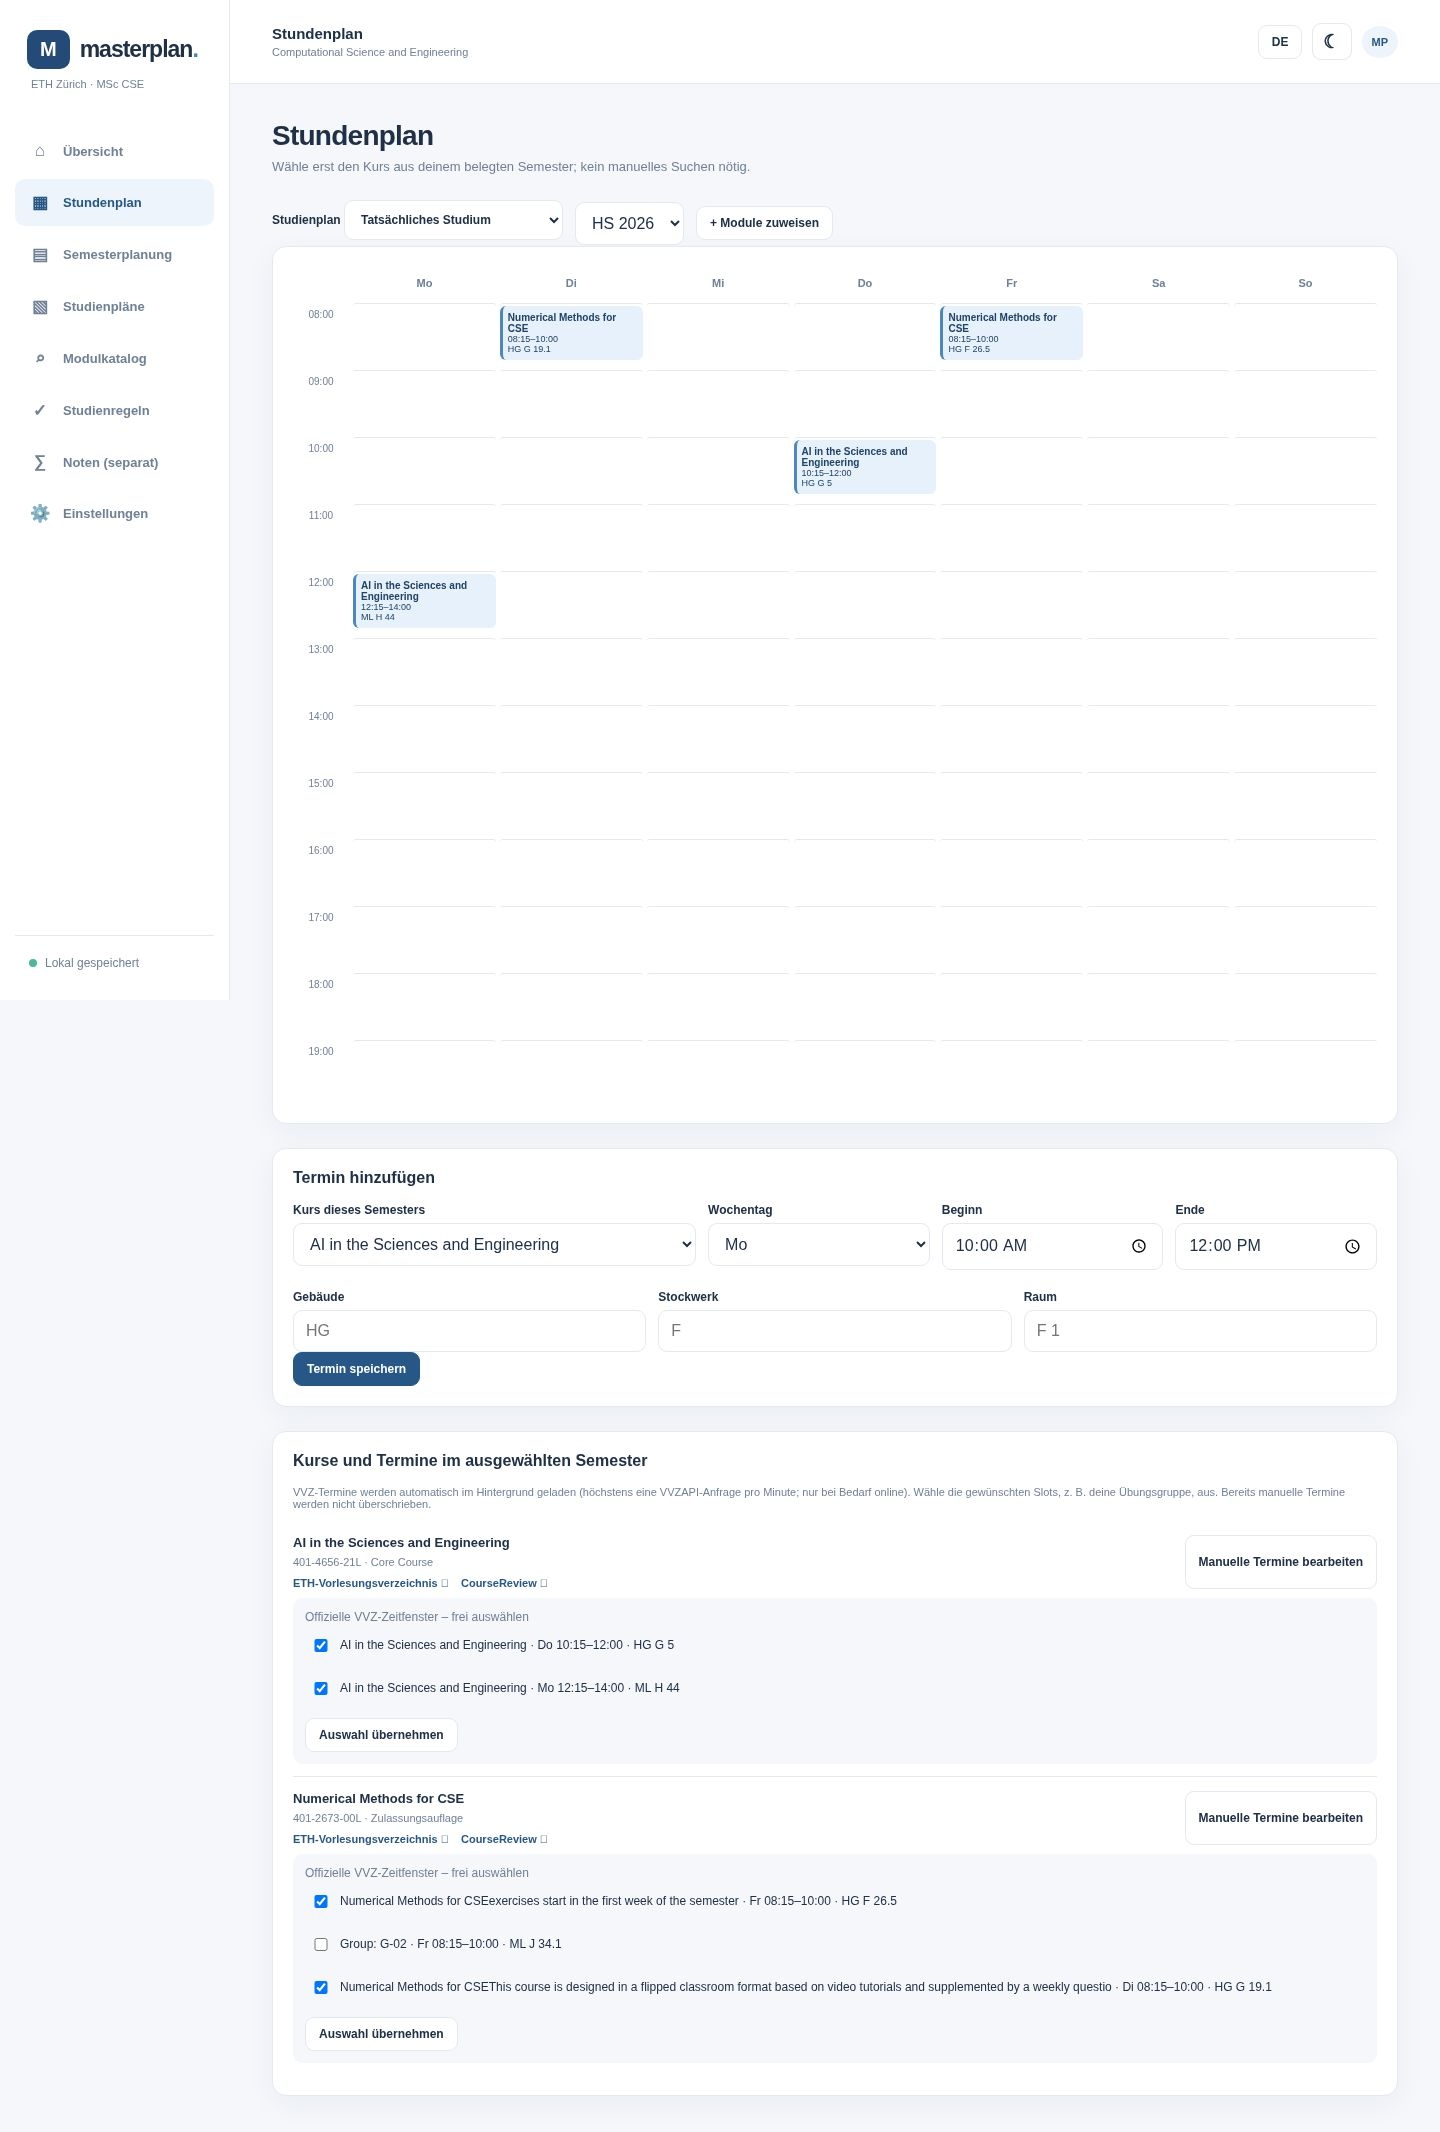
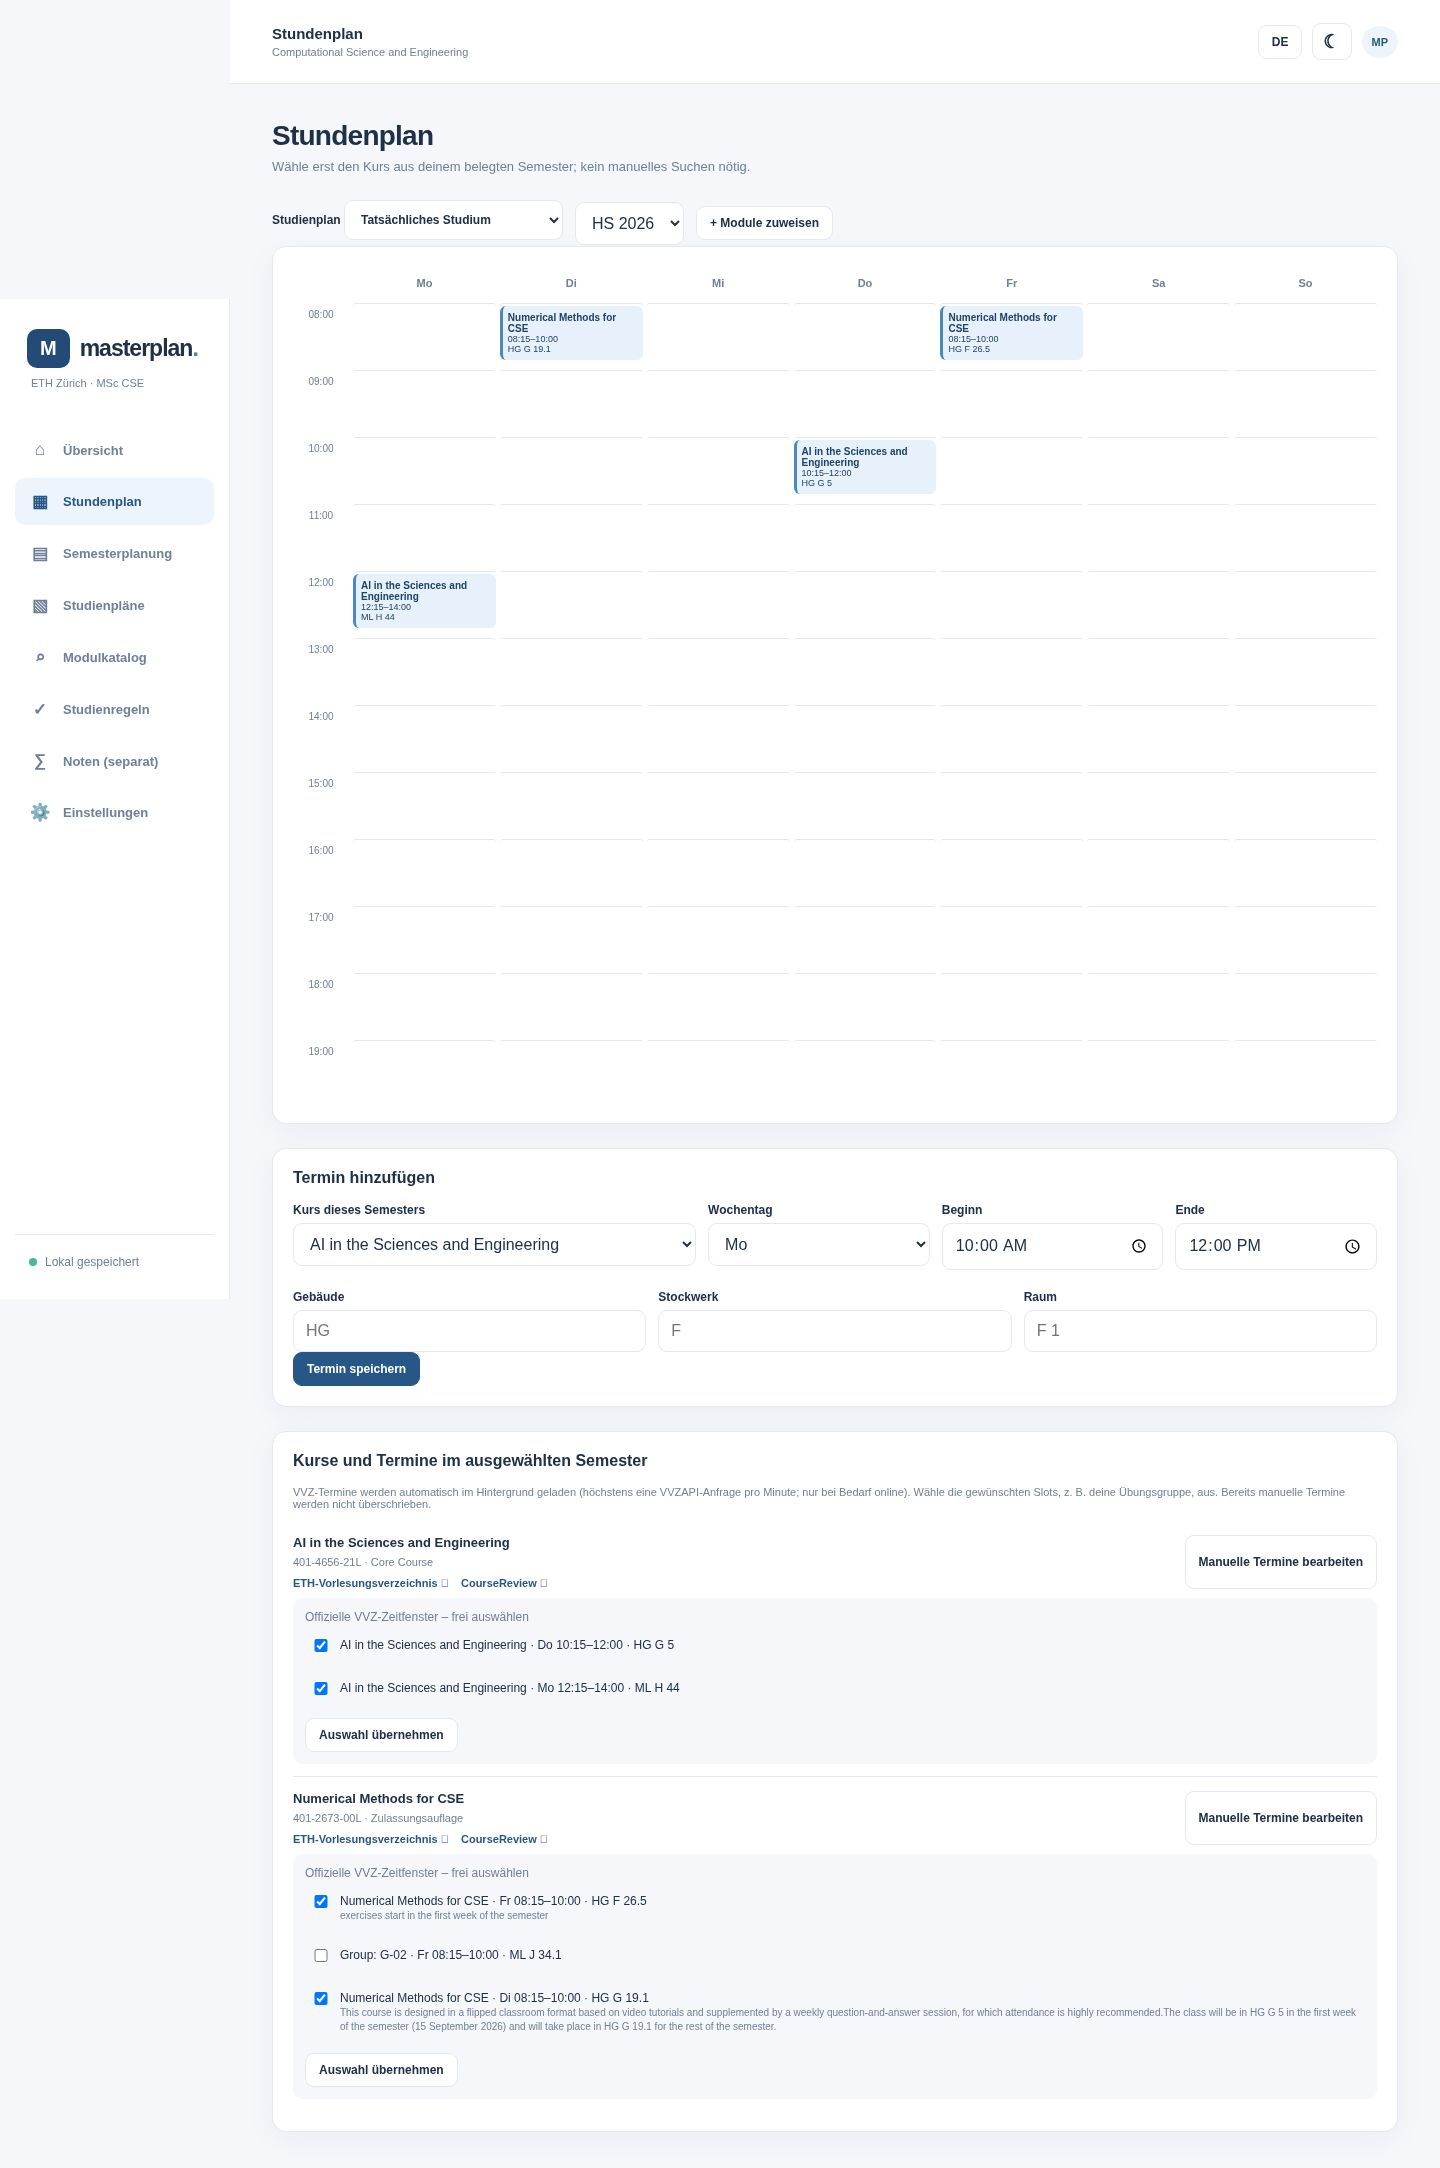
Keep official schedule comments separate and preserve room exceptions

diff --git a/web/app.js b/web/app.js
@@ -334,7 +334,7 @@ function schedule() {
     </div><div class="card spaced"><h2 class="section-title">${tr('Kurse und Termine im ausgewählten Semester','Courses and events this semester')}</h2>
     <p class="hint">${tr('VVZ-Termine werden automatisch im Hintergrund geladen (höchstens eine VVZAPI-Anfrage pro Minute; nur bei Bedarf online). Wähle die gewünschten Slots, z. B. deine Übungsgruppe, aus. Bereits manuelle Termine werden nicht überschrieben.','VVZ meetings are loaded automatically in the background (at most one VVZAPI request per minute; online only if needed). Choose the relevant slots such as your exercise group. Manual events are never overwritten.')}</p>
     ${courses.map(c=>{const info=c.unitId?meetingData.get(String(c.unitId)):null;const slots=info?.meetings||[];return `<div class="meeting-unit"><div class="course-card"><div><div class="course-name">${escape(c.title)}</div><div class="course-meta">${escape(c.number||'')} · ${trRole(c.role)} ${c.proxy?'· Proxy '+semName(c.sourceSemester):''}</div>${courseLinks(c)}</div>${p.courses.some(x=>x.id===c.id)?button(tr('Manuelle Termine bearbeiten','Edit meetings'),'edit-events',`data-id="${attrs(c.id)}"`):''}</div>
-      ${c.unitId?(info?.status==='ready'?slots.length?`<div class="meeting-options"><div class="small muted">${tr('Offizielle VVZ-Zeitfenster – frei auswählen','Official VVZ time slots – select as needed')}${c.proxy?` · ${tr('Historischer Proxy','Historical proxy')}: ${semName(c.sourceSemester)}`:''}${info.changed?` · ⚠ ${tr('VVZ-Termine geändert','VVZ schedule changed')}`:''}${info.groupStatus==='queued'?` · ${tr('Weitere VVZ-Termine werden nachgeladen','Additional VVZ meetings loading')}`:''}</div>${slots.map((m,i)=>`<label class="meeting-option"><input type="checkbox" data-slot="${attrs(c.id)}" value="${i}" ${c.events?.some(e=>e.apiSlot===m.slotKey)?'checked':''}> <span>${escape(m.label||'')} · ${escape(['Mo','Di','Mi','Do','Fr','Sa','So'][m.day]||'')} ${escape(m.start||'')}–${escape(m.end||'')} · ${escape([m.building,m.floor,m.room].filter(Boolean).join(' '))}${m.date?` · ${escape(m.date)}`:''}</span></label>`).join('')}${button(tr('Auswahl übernehmen','Apply selected slots'),'apply-vvz-slots',`data-id="${attrs(c.id)}"`)}</div>`:`<p class="small muted">${info.groupStatus==='queued'?tr('Fehlende Zeiten werden von ETH VVZ nachgeladen; bitte kurz warten.','Missing times are loading from ETH VVZ; please wait.'):info.groupStatus==='failed'?escape(info.error||tr('ETH VVZ momentan nicht erreichbar; erneuter Versuch folgt.','ETH VVZ currently unavailable; will retry.')):tr('Keine regulären Zeiten gefunden; manuelle Eingabe möglich.','No regular times found; manual entry available.')}</p>`:`<p class="small muted">${info?.status==='failed'?escape(info.error):tr('VVZ-Termine werden geladen / warten auf API-Limit…','Loading VVZ meetings / waiting for API rate limit…')}</p>`):`<p class="small muted">${tr('Manueller Kurs – keine VVZ-Kennung vorhanden.','Manual course – no VVZ unit ID.')}</p>`}</div>`;}).join('')||`<p class="muted small">${tr('Keine Kurse','No courses')}</p>`}</div>`;
+      ${c.unitId?(info?.status==='ready'?slots.length?`<div class="meeting-options"><div class="small muted">${tr('Offizielle VVZ-Zeitfenster – frei auswählen','Official VVZ time slots – select as needed')}${c.proxy?` · ${tr('Historischer Proxy','Historical proxy')}: ${semName(c.sourceSemester)}`:''}${info.changed?` · ⚠ ${tr('VVZ-Termine geändert','VVZ schedule changed')}`:''}${info.groupStatus==='queued'?` · ${tr('Weitere VVZ-Termine werden nachgeladen','Additional VVZ meetings loading')}`:''}</div>${slots.map((m,i)=>`<label class="meeting-option"><input type="checkbox" data-slot="${attrs(c.id)}" value="${i}" ${c.events?.some(e=>e.apiSlot===m.slotKey)?'checked':''}> <span>${escape(m.label||'')} · ${escape(['Mo','Di','Mi','Do','Fr','Sa','So'][m.day]||'')} ${escape(m.start||'')}–${escape(m.end||'')} · ${escape([m.building,m.floor,m.room].filter(Boolean).join(' '))}${m.date?` · ${escape(m.date)}`:''}${m.note?`<br><small class="muted">${escape(m.note)}</small>`:''}</span></label>`).join('')}${button(tr('Auswahl übernehmen','Apply selected slots'),'apply-vvz-slots',`data-id="${attrs(c.id)}"`)}</div>`:`<p class="small muted">${info.groupStatus==='queued'?tr('Fehlende Zeiten werden von ETH VVZ nachgeladen; bitte kurz warten.','Missing times are loading from ETH VVZ; please wait.'):info.groupStatus==='failed'?escape(info.error||tr('ETH VVZ momentan nicht erreichbar; erneuter Versuch folgt.','ETH VVZ currently unavailable; will retry.')):tr('Keine regulären Zeiten gefunden; manuelle Eingabe möglich.','No regular times found; manual entry available.')}</p>`:`<p class="small muted">${info?.status==='failed'?escape(info.error):tr('VVZ-Termine werden geladen / warten auf API-Limit…','Loading VVZ meetings / waiting for API rate limit…')}</p>`):`<p class="small muted">${tr('Manueller Kurs – keine VVZ-Kennung vorhanden.','Manual course – no VVZ unit ID.')}</p>`}</div>`;}).join('')||`<p class="muted small">${tr('Keine Kurse','No courses')}</p>`}</div>`;
 }
 
 function catalog() {
@@ -475,7 +475,7 @@ async function executeAction(action,element) {
   if(action==='focus-assign'){changePage('semesters');const form=$('#assign-course-form');if(form){if(element.dataset.interestId)form.elements.namedItem('interest').value=element.dataset.interestId;if(element.dataset.planId)form.elements.namedItem('plan').value=element.dataset.planId;if(element.dataset.sem)form.elements.namedItem('semester').value=element.dataset.sem;form.scrollIntoView({behavior:'smooth',block:'center'});}return;}
   if(action==='assign-interest'){const form=$('#assign-course-form');if(!form)return;const source=state.interests.find(x=>x.id===formVal(form,'interest'));const key=formVal(form,'plan'),sem=formVal(form,'semester'),role=formVal(form,'role');const dest=getPlan(key);if(!source||!dest||!/^\d{4}[SW]$/.test(sem)||!roleList.includes(role))return notify(tr('Bitte gültige Auswahl treffen.','Choose a valid course and term.'));if(dest.lockedSemesters.includes(sem))return notify(tr('Semester ist fixiert.','Semester locked.'));const off=offeringFor(source.offerings,sem);if(dest.courses.some(x=>x.number&&x.number===source.number&&x.semester===sem))return notify(tr('Kurs ist bereits eingetragen.','Course already assigned.'));return save(s=>{const d=editPlan(s,key);if(d.courses.some(c=>c.number&&c.number===source.number&&c.semester===sem))return;if(!d.semesters.includes(sem)){d.semesters.push(sem);d.semesters.sort();}d.courses.push({id:id(),number:source.number||'',title:source.title,ects:safe(source.ects),semester:sem,role,status:'planned',unitId:off.unitId||null,sourceSemester:off.sourceSemester||null,proxy:off.proxy,reviewAvailable:!!source.reviewAvailable,events:[],locked:false,creditApproved:role==='extra'?false:null});});}
   if(action==='remove-course'){const key=element.dataset.planId||p.id,dest=getPlan(key),found=dest?.courses.find(x=>x.id===cid);if(!found)return;if(found.locked||dest.lockedSemesters.includes(found.semester))return notify(tr('Erst entsperren.','Unlock first.'));return save(s=>{editPlan(s,key).courses=editPlan(s,key).courses.filter(x=>x.id!==cid);});}
-  if(action==='apply-vvz-slots'){const c=course, info=meetingData.get(String(c?.unitId));if(!c||!info||info.status!=='ready')return;const dest=getPlan(element.dataset.planId||p.id);if(fixed(c,dest))return notify(tr('Fixierter Kurs.','Course locked.'));const selected=[...document.querySelectorAll(`[data-slot="${CSS.escape(c.id)}"]:checked`)].map(e=>info.meetings[Number(e.value)]).filter(Boolean);return save(s=>{const item=editPlan(s,dest.id).courses.find(x=>x.id===c.id);item.events=[...(item.events||[]).filter(e=>!e.apiSlot),...selected.map(m=>({day:m.day,start:m.start,end:m.end,building:m.building||'',floor:m.floor||'',room:m.room||'',date:m.date||null,biweekly:!!m.biweekly,firstHalf:!!m.firstHalf,secondHalf:!!m.secondHalf,source:'vvz',apiSlot:m.slotKey,sourceSemester:item.sourceSemester}))];});}
+  if(action==='apply-vvz-slots'){const c=course, info=meetingData.get(String(c?.unitId));if(!c||!info||info.status!=='ready')return;const dest=getPlan(element.dataset.planId||p.id);if(fixed(c,dest))return notify(tr('Fixierter Kurs.','Course locked.'));const selected=[...document.querySelectorAll(`[data-slot="${CSS.escape(c.id)}"]:checked`)].map(e=>info.meetings[Number(e.value)]).filter(Boolean);return save(s=>{const item=editPlan(s,dest.id).courses.find(x=>x.id===c.id);item.events=[...(item.events||[]).filter(e=>!e.apiSlot),...selected.map(m=>({day:m.day,start:m.start,end:m.end,building:m.building||'',floor:m.floor||'',room:m.room||'',date:m.date||null,biweekly:!!m.biweekly,firstHalf:!!m.firstHalf,secondHalf:!!m.secondHalf,note:m.note||'',source:'vvz',apiSlot:m.slotKey,sourceSemester:item.sourceSemester}))];});}
 
   if(action==='go-semester-compare'){comparisonView='semesters';return changePage('plans');}
   if(action==='compare-view'){comparisonView=element.dataset.view==='semesters'?'semesters':'plans';return render();}

diff --git a/server.py b/server.py
@@ -322,7 +322,7 @@ class VvzCache:
         if file and file.exists():
             try:
                 value = json.loads(file.read_text(encoding='utf-8'))
-                if isinstance(value.get('courses'), list):
+                if isinstance(value, dict) and isinstance(value.get('courses'), list) and isinstance(value.get('checked'), (int, float)):
                     return value
             except (ValueError, OSError):
                 pass
@@ -468,7 +468,8 @@ def normalize_meetings(courses):
                     "date": str(slot.get("date") or "")[:24],
                     "biweekly": bool(slot.get("biweekly")),
                     "firstHalf": bool(slot.get("first_half_semester")),
-                    "secondHalf": bool(slot.get("second_half_semester"))}
+                    "secondHalf": bool(slot.get("second_half_semester")),
+                    "note": str(course.get("comment") or "")[:1500]}
             # Stable slot identity ensures previously selected slots can be retained.
             item["slotKey"] = hashlib.sha256(json.dumps(item, sort_keys=True).encode()).hexdigest()[:20]
             normalized.append(item)

diff --git a/vvz_schedule.py b/vvz_schedule.py
@@ -71,7 +71,12 @@ def parse_official_courses(html):
                             [('building', 'gebaeude'), ('floor', 'geschoss'), ('room', 'raumNr')]}
                     break
             slots.append({'weekday': days[cols[0].text()], 'start_time': times[1], 'end_time': times[2], **room})
-        courses.append({'number': cells[0].text(), 'title': cells[1].text(), 'timeslots': slots})
+        comments = [c for c in cells[1].children if isinstance(c, Node) and
+                    'kommentar-lv' in c.attrs.get('class', '').split()]
+        title = ' '.join(c.strip() if isinstance(c, str) else c.text()
+                         for c in cells[1].children if c not in comments).strip()
+        courses.append({'number': cells[0].text(), 'title': title, 'timeslots': slots,
+                        'comment': ' '.join(c.text() for c in comments)})
     if not courses:
         raise ValueError('Official VVZ returned no recognizable courses')
     return courses

diff --git a/tests/test_regressions.py b/tests/test_regressions.py
@@ -84,6 +84,8 @@ class ScheduleRegression(unittest.TestCase):
                          [(3, '10:15', 'HG', '5'), (0, '12:15', 'ML', '44')])
         numerical = normalize_meetings(parse_official_courses((FIXTURES / 'numerical-hs26.html').read_text()))
         self.assertEqual([(x['day'], x['start']) for x in numerical], [(1, '08:15'), (4, '08:15')])
+        self.assertEqual(numerical[0]['label'], 'Numerical Methods for CSE')
+        self.assertIn('first week', numerical[0]['note'])
 
     def test_null_json_collections_and_invalid_clock_times(self):
         self.assertEqual(_json_value('null', []), [])
